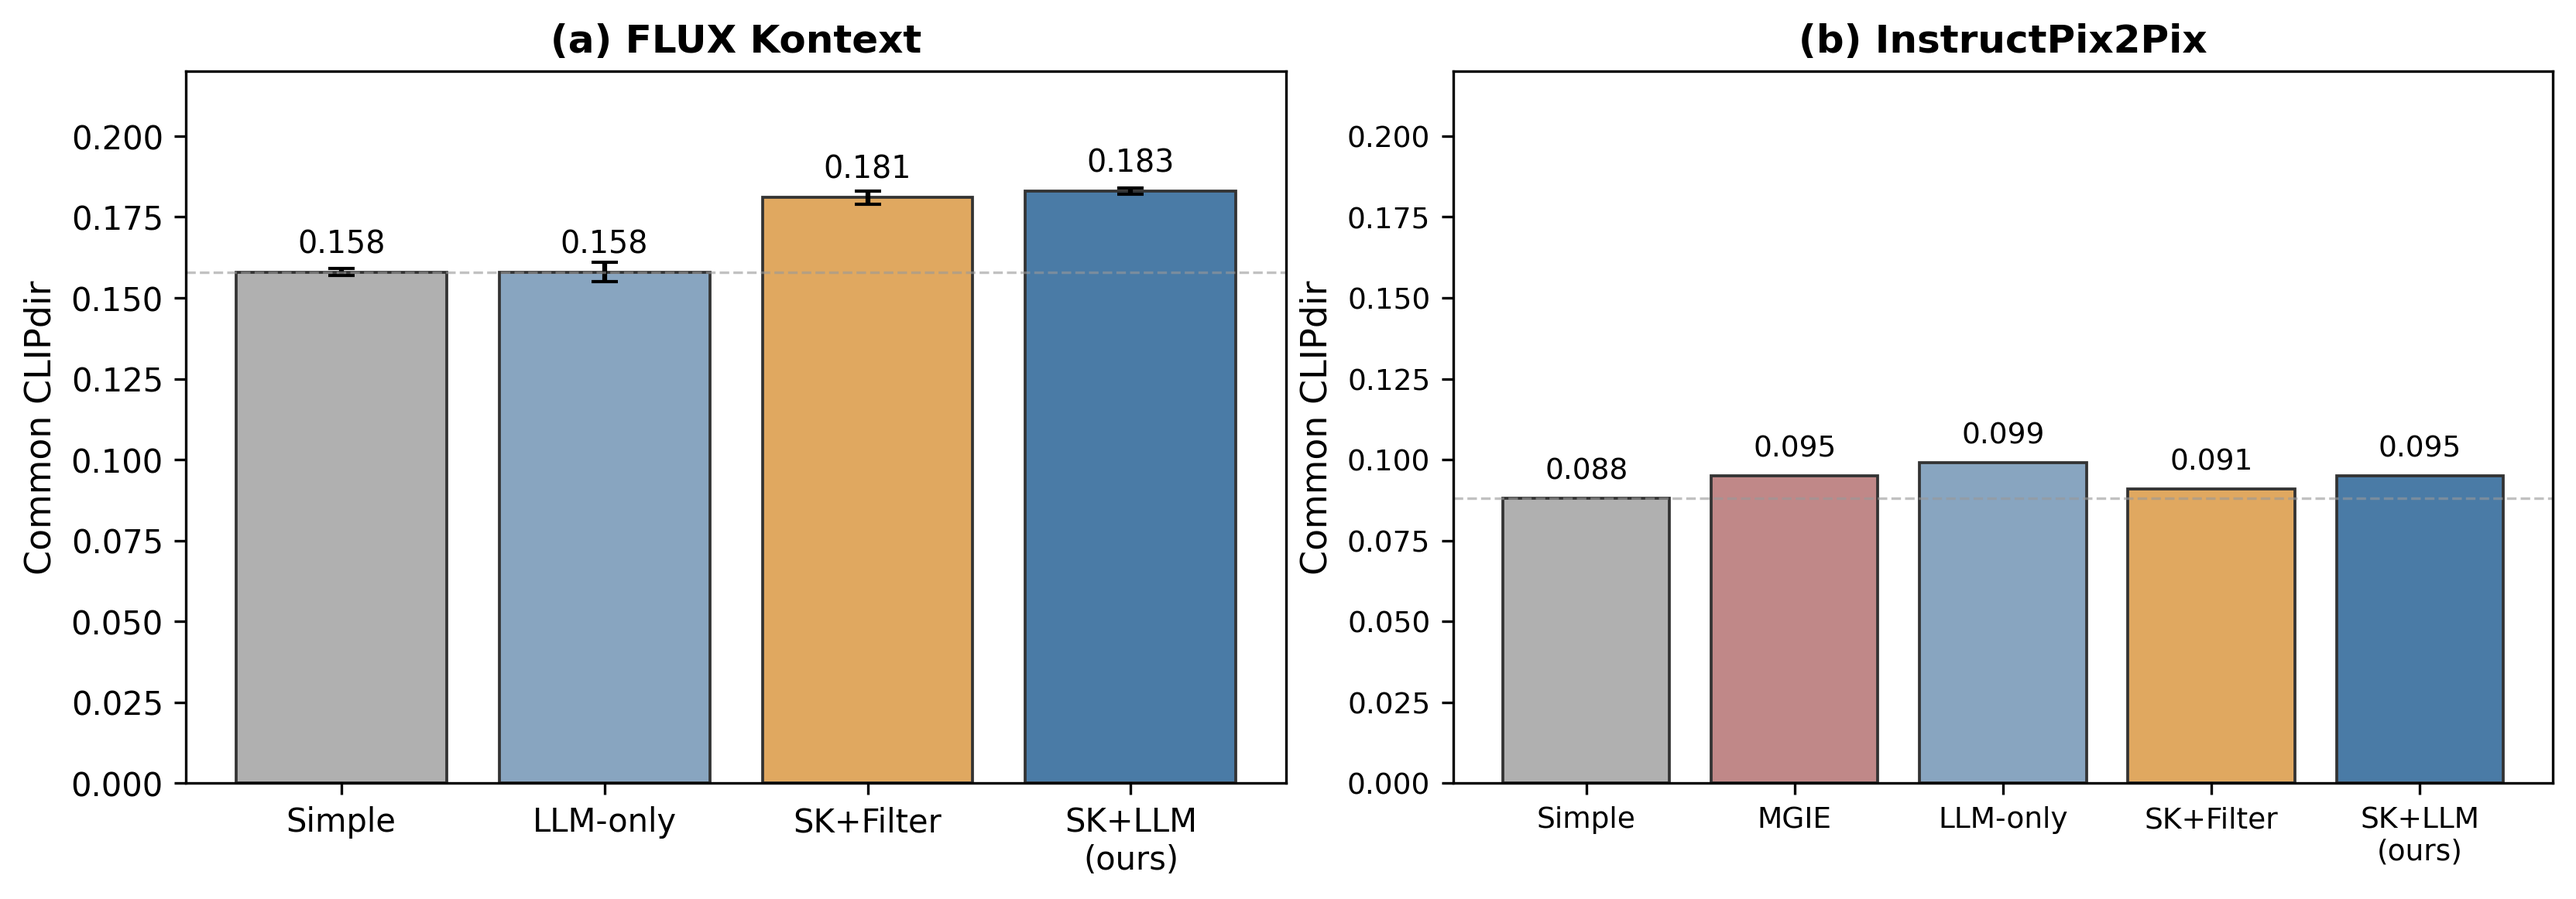
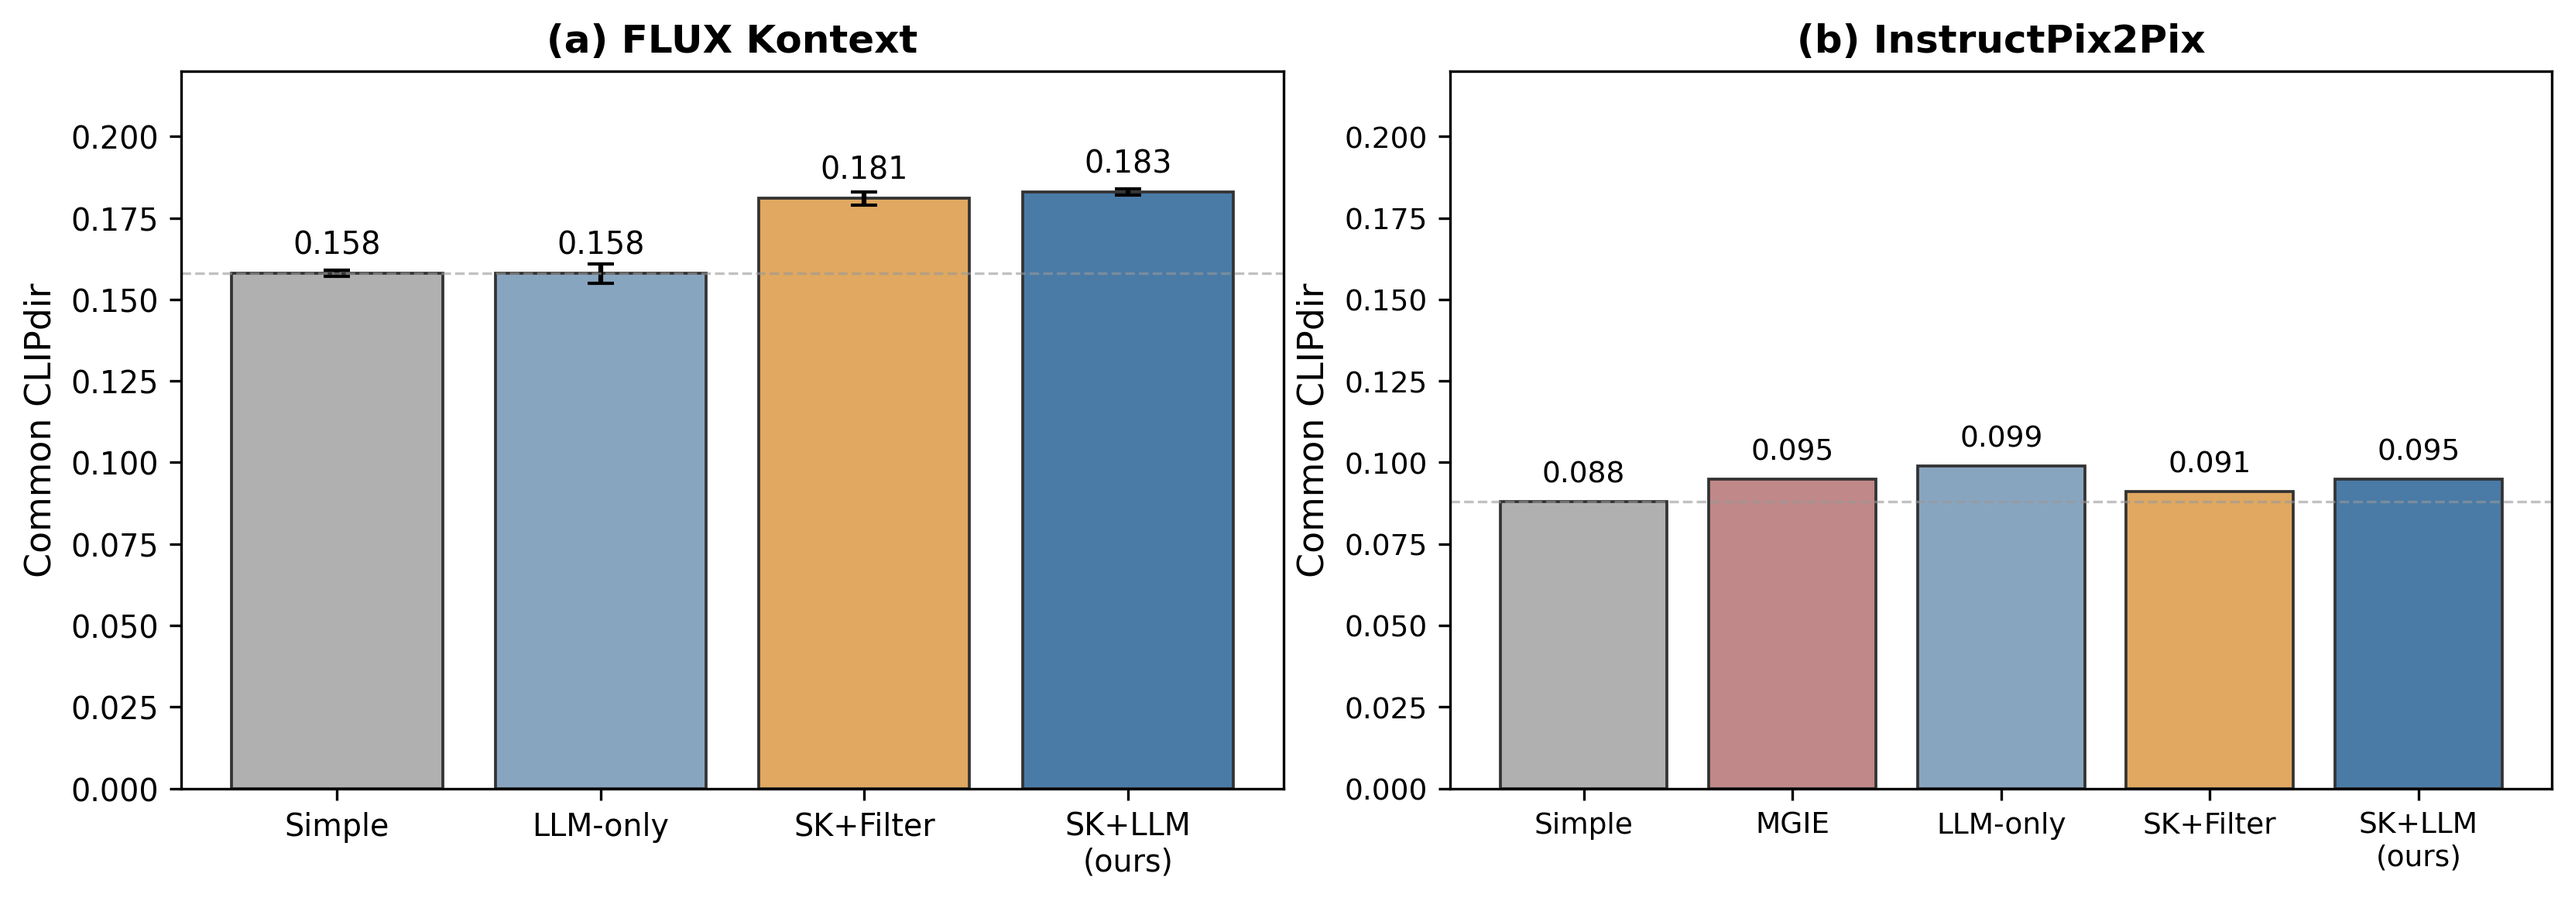
Add files via upload

diff --git a/scripts/self_check.py b/scripts/self_check.py
@@ -58,6 +58,7 @@ def check_required_files() -> None:
         ".gitattributes",
         "assets/framework.png",
         "assets/clipdir_results.png",
+        "assets/qualitative_results.png",
         "data/structured_repository.json",
         "data/clipout_captions.json",
         "data/emu_edit_weather_final.json",
@@ -366,9 +367,14 @@ def check_assets_and_syntax() -> None:
 
     expected_hashes = {
[4 lines of base64/hex data omitted]
     }
-    for path in (ROOT / "assets/framework.png", ROOT / "assets/clipdir_results.png"):
+    for path in (
+        ROOT / "assets/framework.png",
+        ROOT / "assets/clipdir_results.png",
+        ROOT / "assets/qualitative_results.png",
+    ):
         with Image.open(path) as image:
             require(image.width >= 1200 and image.height >= 400, f"Asset resolution too low: {path.name} {image.size}")
             image.verify()

diff --git a/figures/make_clipdir_figure.py b/figures/make_clipdir_figure.py
@@ -1,4 +1,9 @@
-"""Regenerate the shared-reference CLIPdir figure used in the README."""
+"""Regenerate a data-equivalent CLIPdir plot without overwriting the manuscript asset.
+
+The README uses ``assets/clipdir_results.png``, the exact image embedded in the
+manuscript. This utility writes a separately named reproducibility rendering
+because Matplotlib/library versions can change pixel dimensions or compression.
+"""
 import argparse
 from pathlib import Path
 import matplotlib
@@ -41,7 +46,7 @@ for a in axes:
 
 plt.tight_layout(pad=0.4)
 parser = argparse.ArgumentParser(description=__doc__)
-parser.add_argument("--output", type=Path, default=Path("assets/clipdir_results.png"))
+parser.add_argument("--output", type=Path, default=Path("artifacts/clipdir_results_regenerated.png"))
 args = parser.parse_args()
 args.output.parent.mkdir(parents=True, exist_ok=True)
 fig.savefig(args.output, dpi=300, bbox_inches="tight", facecolor="white")

diff --git a/README.md b/README.md
@@ -17,6 +17,16 @@ Short requests such as *“make it rainy”* often provide too little visual det
 
 The released repository contains **21 condition entries**, **5 typed cue slots**, and **498 visual cues**. No component is fine-tuned for this task.
 
+## Qualitative results
+
+<p align="center">
+  <img src="assets/qualitative_results.png" alt="Qualitative comparison of Input, Simple, LLM-only, and SK+LLM image-editing results" width="1000">
+</p>
+
+On both rainy-condition examples, **Simple** and **LLM-only** leave the scene largely unchanged. **SK+LLM** supplies concrete condition-specific cues, leading FLUX Kontext to introduce wet surfaces, puddles, reflections, and darker lighting while retaining the main scene structure. The panel is the same qualitative figure used in the manuscript (FLUX Kontext, seed 42).
+
+*The source images are from the Emu Edit test set and remain under CC BY-NC 4.0; this manuscript panel is included for non-commercial research demonstration and attribution.*
+
 ## Main results
 
 ### FLUX Kontext
@@ -92,7 +102,7 @@ Consequently, comparisons **within** each backbone are controlled, while the FLU
 │   ├── export_results.py
 │   └── self_check.py
 ├── analysis/statistics.py      # bootstrap confidence intervals and Wilcoxon tests
-└── figures/                    # reproducible README figures
+└── figures/                    # figure-generation utilities
 ```
 
 The archived result files retain the original workspace field names. [`results/README.md`](results/README.md) maps them to the paper labels.
@@ -149,7 +159,7 @@ python scripts/generate_ip2p.py \
 python scripts/recompute_metrics.py runs/ip2p/manifest.json --device cuda
 ```
 
-Source images, model weights, MGIE code, and generated images are not redistributed. The scripts are cleaned reference implementations; the included sample-level records are the source of truth for the reported numerical tables. See [`docs/reproducibility.md`](docs/reproducibility.md).
+Apart from the manuscript qualitative panel in `assets/qualitative_results.png`, source images and generated image files are not redistributed. Model weights and MGIE code are also not redistributed. The scripts are cleaned reference implementations; the included sample-level records are the source of truth for the reported numerical tables. See [`docs/reproducibility.md`](docs/reproducibility.md).
 
 ## Evaluation design
 

diff --git a/data/NOTICE.md b/data/NOTICE.md
@@ -21,9 +21,11 @@ The derivative may not be used for commercial purposes unless separate permissio
 3. The original `idx`, `hash`, `instruction`, `input_caption`, and `output_caption` fields were retained.
 4. `image_path` is a local relative reference used by the experiment scripts.
 
-### Not redistributed
+### Image redistribution scope
 
-No source images are included. Obtain them from the original Emu Edit release and arrange them so the paths in the annotation file can be resolved by `--image-root`.
+The repository includes one composite manuscript panel, `assets/qualitative_results.png`, containing two Emu Edit source images and the corresponding generated outputs for non-commercial research demonstration. The panel is reproduced unchanged from the manuscript and remains subject to the Emu Edit **CC BY-NC 4.0** terms.
+
+No standalone source-image collection is included. Obtain the full source images from the original Emu Edit release and arrange them so the paths in the annotation file can be resolved by `--image-root`.
 
 The exact experimental subsets are identified by:
 

diff --git a/docs/reproducibility.md b/docs/reproducibility.md
@@ -23,7 +23,7 @@ Regenerating edited images requires:
 - DeepSeek-R1-Distill-Qwen-32B for instruction generation.
 - The official MGIE code, LLaVA weights, and checkpoint for the IP2P configuration and MGIE baseline.
 
-The source images, model weights, MGIE code, and generated images are not redistributed.
+Apart from the manuscript qualitative panel in `assets/qualitative_results.png`, source images and generated image files are not redistributed. Model weights and MGIE code are not redistributed.
 
 ## Clean reference implementation versus archived outputs
 
